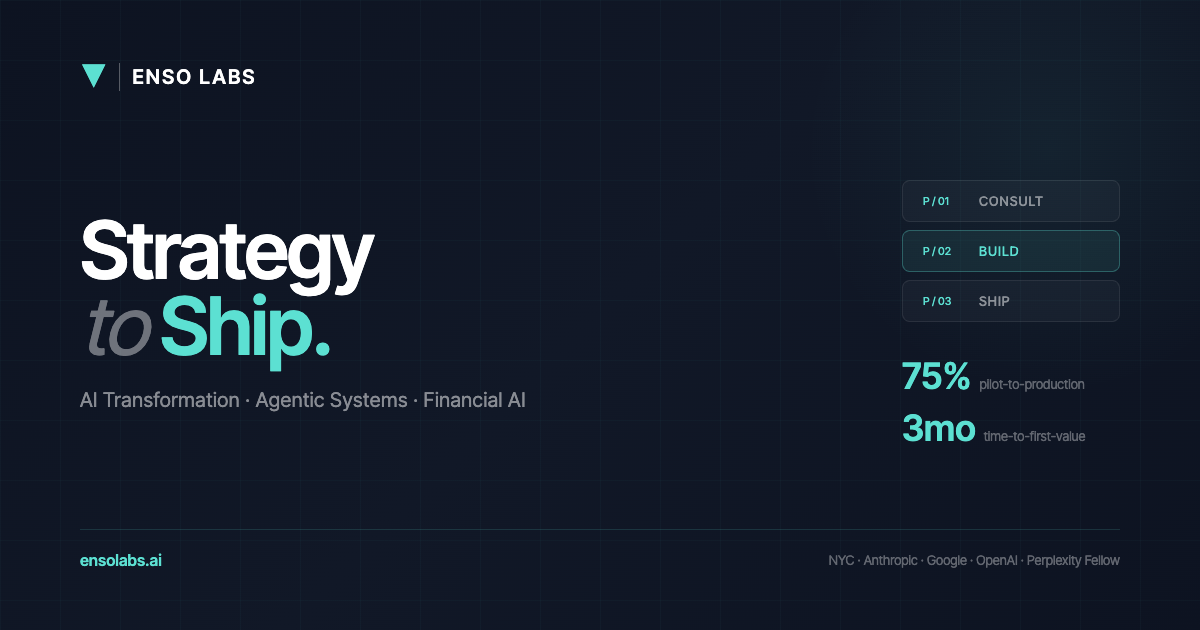
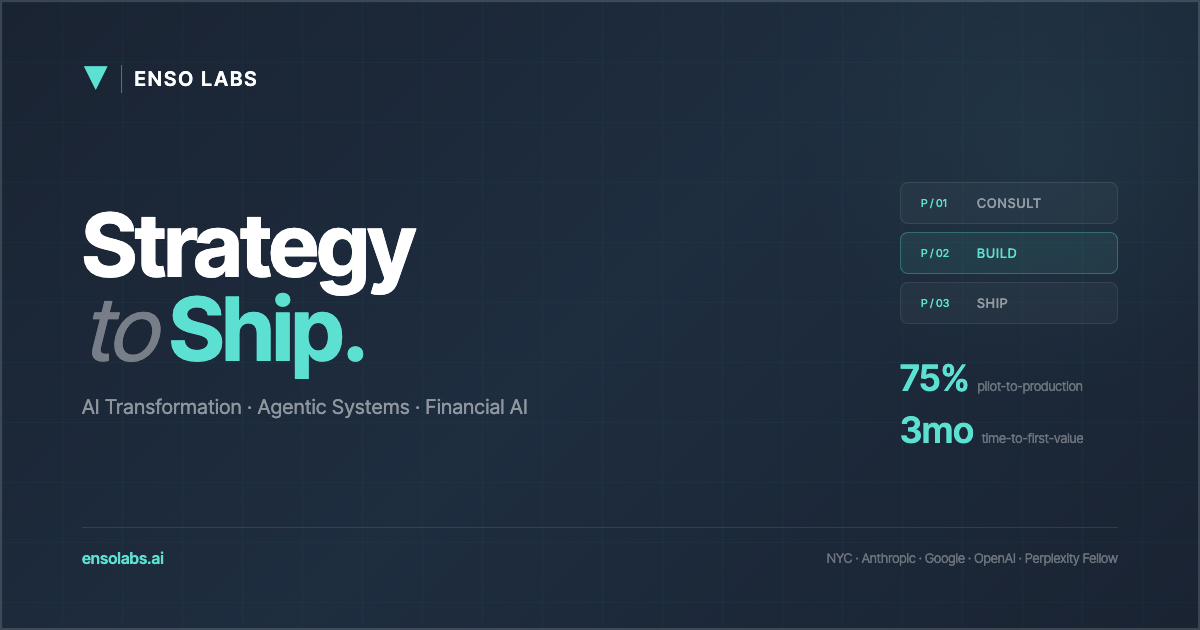
OG image: Apple-specific tags, brighter version, cache bust v3

diff --git a/app/layout.tsx b/app/layout.tsx
@@ -38,14 +38,24 @@ export const metadata: Metadata = {
     description: 'AI transformation consultancy, agentic systems studio, and financial AI product lab. NYC.',
     url: 'https://ensolabs.ai',
     siteName: 'Enso Labs',
-    images: [{ url: 'https://ensolabs.ai/og-default.png?v=2', width: 1200, height: 630, alt: 'Enso Labs — Strategy to Ship' }],
+    images: [{
+      url: 'https://ensolabs.ai/og-default.png?v=3',
+      secureUrl: 'https://ensolabs.ai/og-default.png?v=3',
+      width: 1200,
+      height: 630,
+      type: 'image/png',
+      alt: 'Enso Labs — Strategy to Ship',
+    }],
     type: 'website',
   },
   twitter: {
     card: 'summary_large_image',
     title: 'Enso Labs — Strategy to Ship',
     description: 'AI transformation consultancy and agentic systems studio. NYC.',
-    images: ['https://ensolabs.ai/og-default.png?v=2'],
+    images: ['https://ensolabs.ai/og-default.png?v=3'],
+  },
+  other: {
+    'thumbnail': 'https://ensolabs.ai/og-default.png?v=3',
   },
   icons: {
     icon: [
@@ -89,6 +99,7 @@ export default function RootLayout({
       <head>
         {/* eslint-disable-next-line @next/next/no-before-interactive-script-outside-document */}
         <script dangerouslySetInnerHTML={{ __html: THEME_INIT_SCRIPT }} />
+        <link rel="image_src" href="https://ensolabs.ai/og-default.png?v=3" />
         <link rel="preconnect" href="https://fonts.googleapis.com" />
         <link rel="preconnect" href="https://fonts.gstatic.com" crossOrigin="anonymous" />
         {/* eslint-disable-next-line @next/next/no-page-custom-font */}

diff --git a/scripts/generate-og.js b/scripts/generate-og.js
@@ -16,7 +16,8 @@ const fs = require('fs');
       * { margin: 0; padding: 0; box-sizing: border-box; }
       body {
         width: 1200px; height: 630px;
-        background: linear-gradient(135deg, #0d1321 0%, #111827 50%, #0d1321 100%);
+        background: linear-gradient(135deg, #1a2332 0%, #1e2d3f 50%, #1a2332 100%);
+        border: 2px solid rgba(255,255,255,0.15);
         font-family: 'Inter Tight', -apple-system, sans-serif;
         display: flex; flex-direction: column; justify-content: space-between;
         padding: 60px 80px;
@@ -41,7 +42,7 @@ const fs = require('fs');
       .wordmark { color: #ffffff; font-size: 20px; font-weight: 600; letter-spacing: 2px; }
       .divider { width: 1px; height: 28px; background: rgba(255,255,255,0.3); }
       .middle { position: relative; z-index: 1; }
-      .headline { font-size: 80px; font-weight: 600; color: #ffffff; line-height: 0.95; letter-spacing: -2px; }
+      .headline { font-size: 88px; font-weight: 700; color: #ffffff; line-height: 0.95; letter-spacing: -2px; }
       .headline em { font-style: italic; color: rgba(255,255,255,0.4); font-weight: 400; }
       .headline .teal { color: #5ce0d2; }
       .subtitle { font-size: 20px; color: rgba(255,255,255,0.5); margin-top: 24px; letter-spacing: 0.5px; }

diff --git a/app/robots.ts b/app/robots.ts
@@ -14,6 +14,7 @@ export default function robots(): MetadataRoute.Robots {
       { userAgent: 'Perplexity-User', allow: '/' },
       { userAgent: 'Google-Extended', allow: '/' },
       { userAgent: 'CCBot', allow: '/' },
+      { userAgent: 'Applebot', allow: '/' },
       { userAgent: 'Applebot-Extended', allow: '/' },
       { userAgent: 'meta-externalagent', allow: '/' },
       { userAgent: 'Bytespider', allow: '/' },
